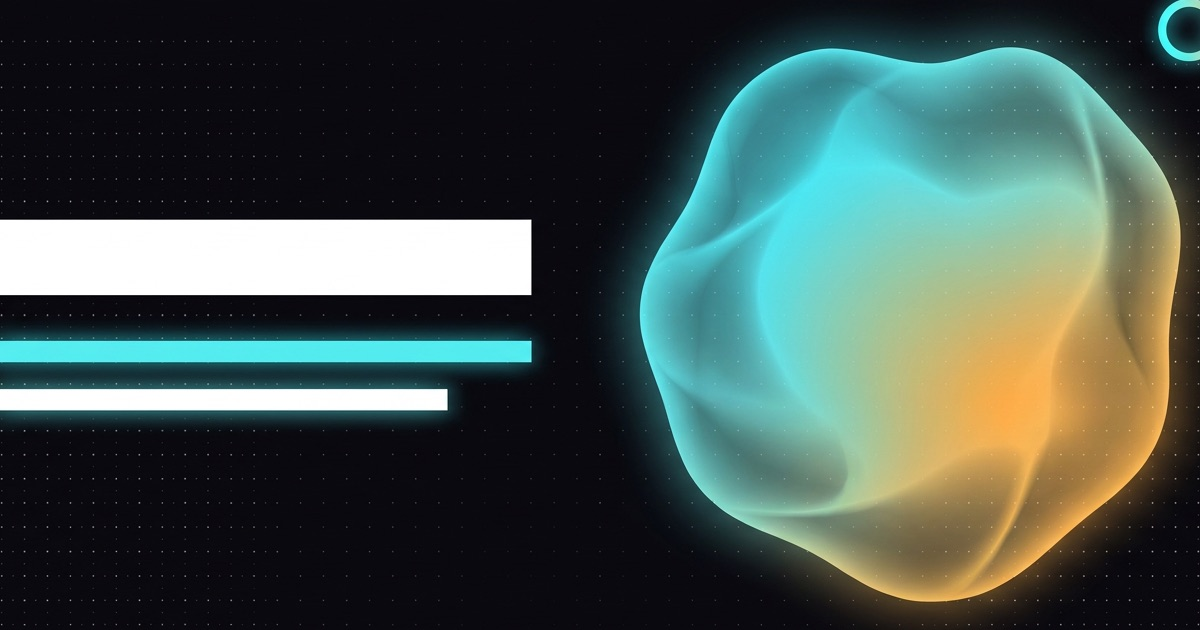
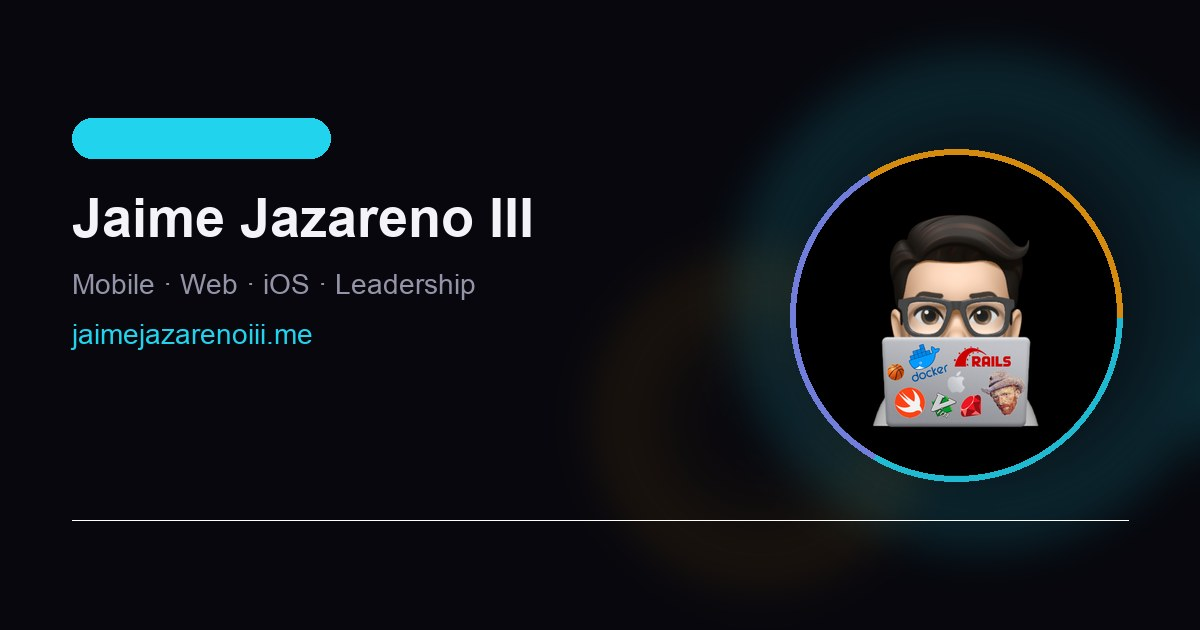
Fix meta

diff --git a/_includes/meta_tags/base.html b/_includes/meta_tags/base.html
@@ -16,14 +16,25 @@
 {% endif %}
 
 {% assign canonical_url = page.url | default: '/' | replace: 'index.html', '' | absolute_url %}
-{% assign og_image = site.social_image | default: '/assets/img/og-image.png' | absolute_url %}
+{% assign og_image_path = page.image | default: site.social_image | default: '/assets/img/og-image.jpg' %}
+{% assign og_image = og_image_path | absolute_url %}
+{% assign og_image_type = site.social_image_type | default: 'image/jpeg' %}
+{% assign og_image_width = site.social_image_width | default: 1200 %}
+{% assign og_image_height = site.social_image_height | default: 630 %}
+{% assign og_image_alt = page.image_alt | default: site.social_image_alt | default: site.author.fullname %}
 
 <title>{{ meta_title | escape }} | {{ site.title | escape }}</title>
 <meta name="description" content="{{ meta_description | escape }}">
-{% if page.tags %}<meta name="keywords" content="{{ page.tags | join: ', ' | escape }}">{% endif %}
 <link rel="canonical" href="{{ canonical_url }}">
-<meta name="theme-color" content="#07070d">
-<meta name="author" content="{{ site.author.fullname | escape }}">
+<link rel="image_src" href="{{ og_image }}">
+
+<meta property="og:image" content="{{ og_image }}">
+<meta property="og:image:url" content="{{ og_image }}">
+<meta property="og:image:secure_url" content="{{ og_image }}">
+<meta property="og:image:type" content="{{ og_image_type }}">
+<meta property="og:image:width" content="{{ og_image_width }}">
+<meta property="og:image:height" content="{{ og_image_height }}">
+<meta property="og:image:alt" content="{{ og_image_alt | escape }}">
 
 <meta property="og:type" content="{% if page.layout == 'post' %}article{% else %}website{% endif %}">
 <meta property="og:site_name" content="{{ site.title | escape }}">
@@ -31,12 +42,6 @@
 <meta property="og:description" content="{{ meta_description | escape }}">
 <meta property="og:url" content="{{ canonical_url }}">
 <meta property="og:locale" content="en_US">
-<meta property="og:image" content="{{ og_image }}">
-<meta property="og:image:secure_url" content="{{ og_image }}">
-<meta property="og:image:type" content="{{ site.social_image_type | default: 'image/jpeg' }}">
-<meta property="og:image:width" content="{{ site.social_image_width | default: 1200 }}">
-<meta property="og:image:height" content="{{ site.social_image_height | default: 630 }}">
-<meta property="og:image:alt" content="{{ site.social_image_alt | escape }}">
 
 <meta name="twitter:card" content="summary_large_image">
 <meta name="twitter:site" content="@{{ site.author.twitter }}">
@@ -44,7 +49,12 @@
 <meta name="twitter:title" content="{{ meta_title | escape }}">
 <meta name="twitter:description" content="{{ meta_description | escape }}">
 <meta name="twitter:image" content="{{ og_image }}">
-<meta name="twitter:image:alt" content="{{ site.social_image_alt | escape }}">
+<meta name="twitter:image:src" content="{{ og_image }}">
+<meta name="twitter:image:alt" content="{{ og_image_alt | escape }}">
+
+{% if page.tags %}<meta name="keywords" content="{{ page.tags | join: ', ' | escape }}">{% endif %}
+<meta name="theme-color" content="#07070d">
+<meta name="author" content="{{ site.author.fullname | escape }}">
 
 {% if page.layout == 'post' %}
 <meta property="article:published_time" content="{{ page.date | date_to_xmlschema }}">

diff --git a/scripts/generate_og_image.py b/scripts/generate_og_image.py
@@ -1,0 +1,102 @@
+#!/usr/bin/env python3
+"""Generate 1200x630 Open Graph image with avatar for social sharing."""
+
+from pathlib import Path
+
+from PIL import Image, ImageDraw, ImageFont, ImageFilter
+
+ROOT = Path(__file__).resolve().parents[1]
+AVATAR = ROOT / "assets/img/avatar.png"
+OUT = ROOT / "assets/img/og-image.jpg"
+
+W, H = 1200, 630
+BG = (7, 7, 13)
+CYAN = (34, 211, 238)
+AMBER = (245, 158, 11)
+TEXT = (244, 244, 248)
+MUTED = (148, 148, 168)
+
+
+def load_font(size: int, bold: bool = False):
+    candidates = [
+        "/System/Library/Fonts/Supplemental/Arial Bold.ttf" if bold else "/System/Library/Fonts/Supplemental/Arial.ttf",
+        "/System/Library/Fonts/Helvetica.ttc",
+        "/Library/Fonts/Arial.ttf",
+    ]
+    for path in candidates:
+        if Path(path).exists():
+            return ImageFont.truetype(path, size)
+    return ImageFont.load_default()
+
+
+def radial_glow(base: Image.Image, cx: int, cy: int, radius: int, color: tuple[int, int, int], alpha: int) -> None:
+    glow = Image.new("RGBA", (W, H), (0, 0, 0, 0))
+    draw = ImageDraw.Draw(glow)
+    for i in range(radius, 0, -4):
+        a = int(alpha * (i / radius) ** 2)
+        draw.ellipse((cx - i, cy - i, cx + i, cy + i), fill=(*color, a))
+    glow = glow.filter(ImageFilter.GaussianBlur(28))
+    base.paste(Image.alpha_composite(base.convert("RGBA"), glow).convert("RGB"))
+
+
+def circular_avatar(source: Image.Image, size: int) -> Image.Image:
+    source = source.convert("RGBA").resize((size, size), Image.Resampling.LANCZOS)
+    mask = Image.new("L", (size, size), 0)
+    ImageDraw.Draw(mask).ellipse((0, 0, size, size), fill=255)
+    output = Image.new("RGBA", (size, size), (0, 0, 0, 0))
+    output.paste(source, (0, 0), mask)
+    return output
+
+
+def gradient_ring(size: int, thickness: int = 8) -> Image.Image:
+    ring = Image.new("RGBA", (size, size), (0, 0, 0, 0))
+    draw = ImageDraw.Draw(ring)
+    outer = size // 2
+    inner = outer - thickness
+    for angle in range(0, 360, 2):
+        t = angle / 360
+        if t < 0.33:
+            c = CYAN
+        elif t < 0.66:
+            c = (129, 140, 248)
+        else:
+            c = AMBER
+        draw.arc((outer - inner, outer - inner, outer + inner, outer + inner), angle, angle + 3, fill=(*c, 220), width=thickness)
+    return ring
+
+
+def main() -> None:
+    img = Image.new("RGB", (W, H), BG)
+    radial_glow(img, 980, 300, 260, CYAN, 55)
+    radial_glow(img, 760, 420, 180, AMBER, 35)
+
+    draw = ImageDraw.Draw(img)
+    draw.line((72, 520, W - 72, 520), fill=(255, 255, 255, 18), width=1)
+
+    title_font = load_font(54, bold=True)
+    subtitle_font = load_font(28)
+    label_font = load_font(18, bold=True)
+
+    draw.rounded_rectangle((72, 118, 330, 158), radius=20, fill=(34, 211, 238, 20), outline=(34, 211, 238, 80), width=1)
+    draw.text((92, 128), "FULL STACK ENGINEER", fill=CYAN, font=label_font)
+    draw.text((72, 188), "Jaime Jazareno III", fill=TEXT, font=title_font)
+    draw.text((72, 268), "Mobile · Web · iOS · Leadership", fill=MUTED, font=subtitle_font)
+    draw.text((72, 318), "jaimejazarenoiii.me", fill=CYAN, font=subtitle_font)
+
+    avatar_size = 320
+    avatar = circular_avatar(Image.open(AVATAR), avatar_size)
+    ring = gradient_ring(avatar_size + 24, 6)
+
+    ax, ay = W - 72 - avatar_size - 12, (H - avatar_size) // 2
+    img_rgba = img.convert("RGBA")
+    img_rgba.paste(ring, (ax - 12, ay - 12), ring)
+    img_rgba.paste(avatar, (ax, ay), avatar)
+    img = img_rgba.convert("RGB")
+
+    OUT.parent.mkdir(parents=True, exist_ok=True)
+    img.save(OUT, "JPEG", quality=88, optimize=True, progressive=True)
+    print(f"Wrote {OUT} ({OUT.stat().st_size // 1024} KB)")
+
+
+if __name__ == "__main__":
+    main()
